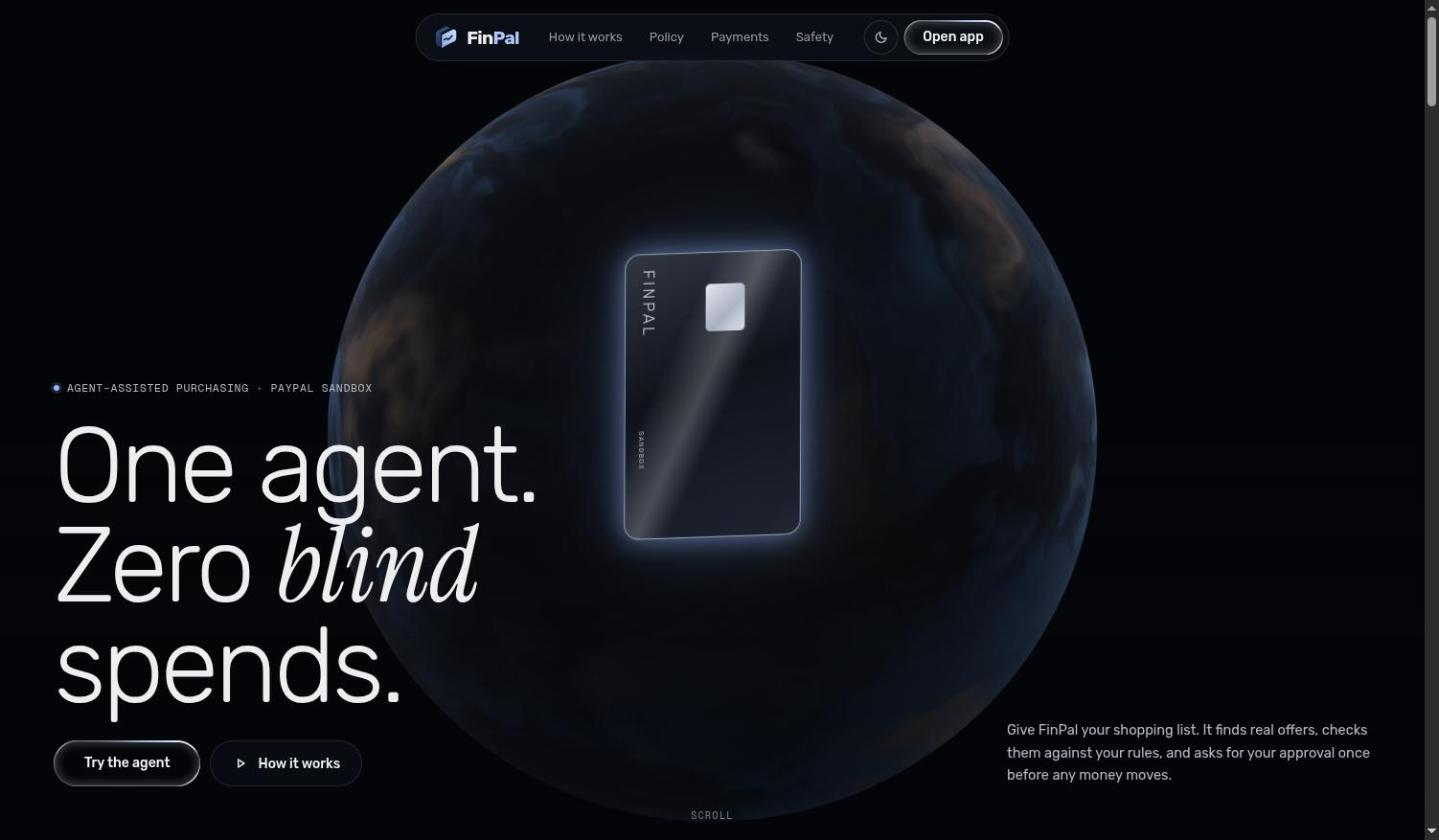
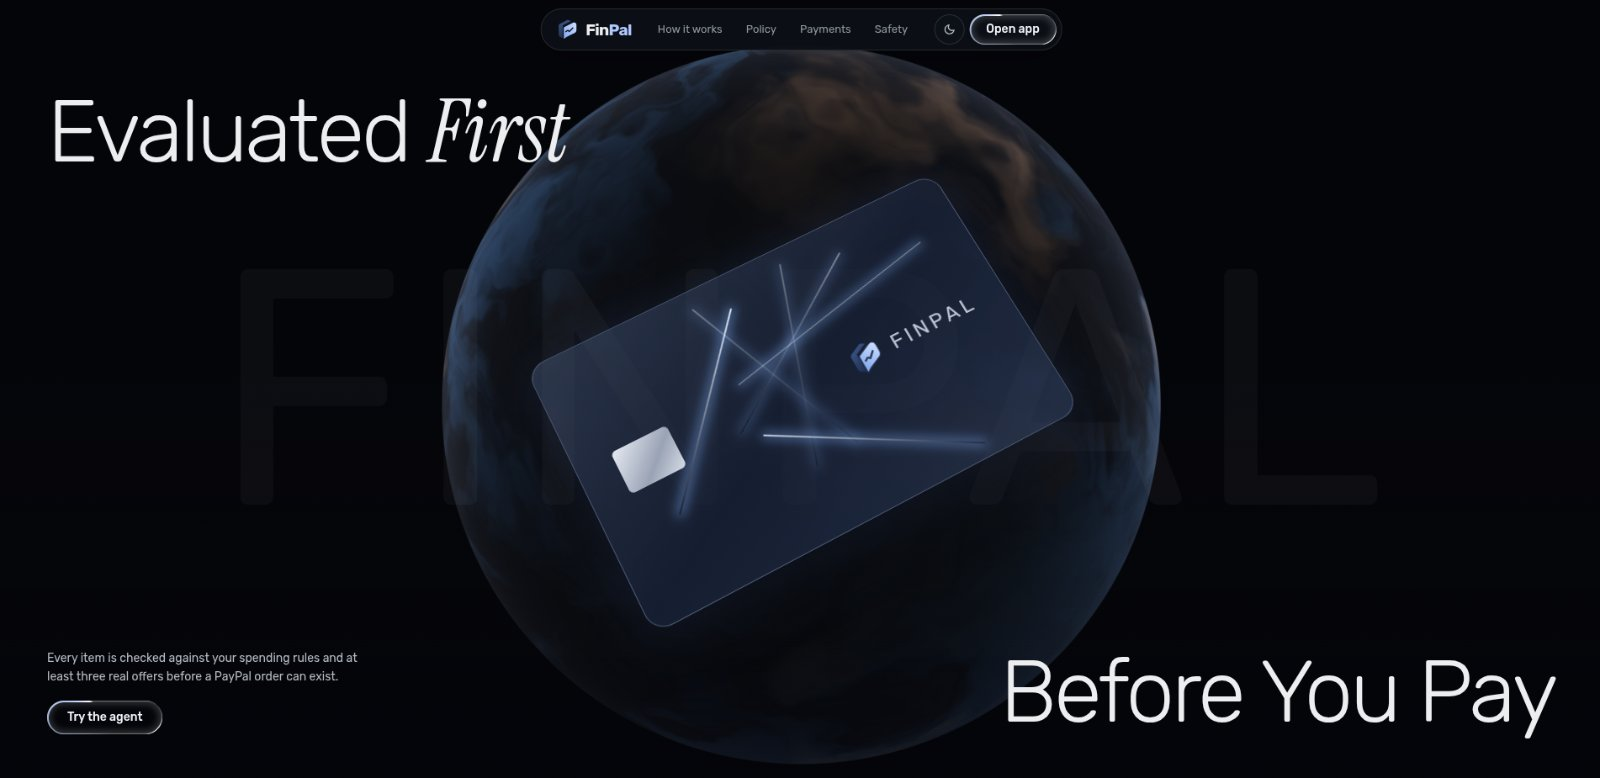
Use preferred FinPal screenshot

diff --git a/index.html b/index.html
@@ -645,7 +645,7 @@ pre.bars { margin: 0; white-space: pre; overflow-x: auto; line-height: 1.75; }
       '<div class="d-tags">' + p.tags.map(function (t, i) { return '<span class="tag ' + tagCols[i % 4] + '">' + t + '</span>'; }).join('') + '</div>' +
       '<div class="d-role">role: <b>' + p.role + '</b></div>' +
       '<p class="d-sum">' + p.sum + '</p>' +
-      (p.shot ? '<a class="d-shot" href="' + p.demo + '" target="_blank" rel="noopener"><img src="' + p.shot + '" alt="Screenshot of the ' + p.name + ' live site" loading="lazy" width="1439" height="840"><span>live site · ' + p.demo.replace('https://', '').replace(/\/$/, '') + ' ↗</span></a>' : '') +
+      (p.shot ? '<a class="d-shot" href="' + p.demo + '" target="_blank" rel="noopener"><img src="' + p.shot + '" alt="Screenshot of the ' + p.name + ' live site" loading="lazy" width="1600" height="778"><span>live site · ' + p.demo.replace('https://', '').replace(/\/$/, '') + ' ↗</span></a>' : '') +
       '<ul class="d-bul">' + p.bul.map(function (b) { return '<li><span>' + b + '</span></li>'; }).join('') + '</ul>' +
       '<div class="blk inner d-flow"><span class="bt"> flow </span><pre class="code">' + p.flow + '</pre></div>' +
       '<div class="d-links"><a class="d-link" id="projLink" href="' + p.url + '" target="_blank" rel="noopener"><span class="kbd">⏎</span><span>' + p.url.replace('https://', '') + '</span><span class="d">↗</span></a>' +
